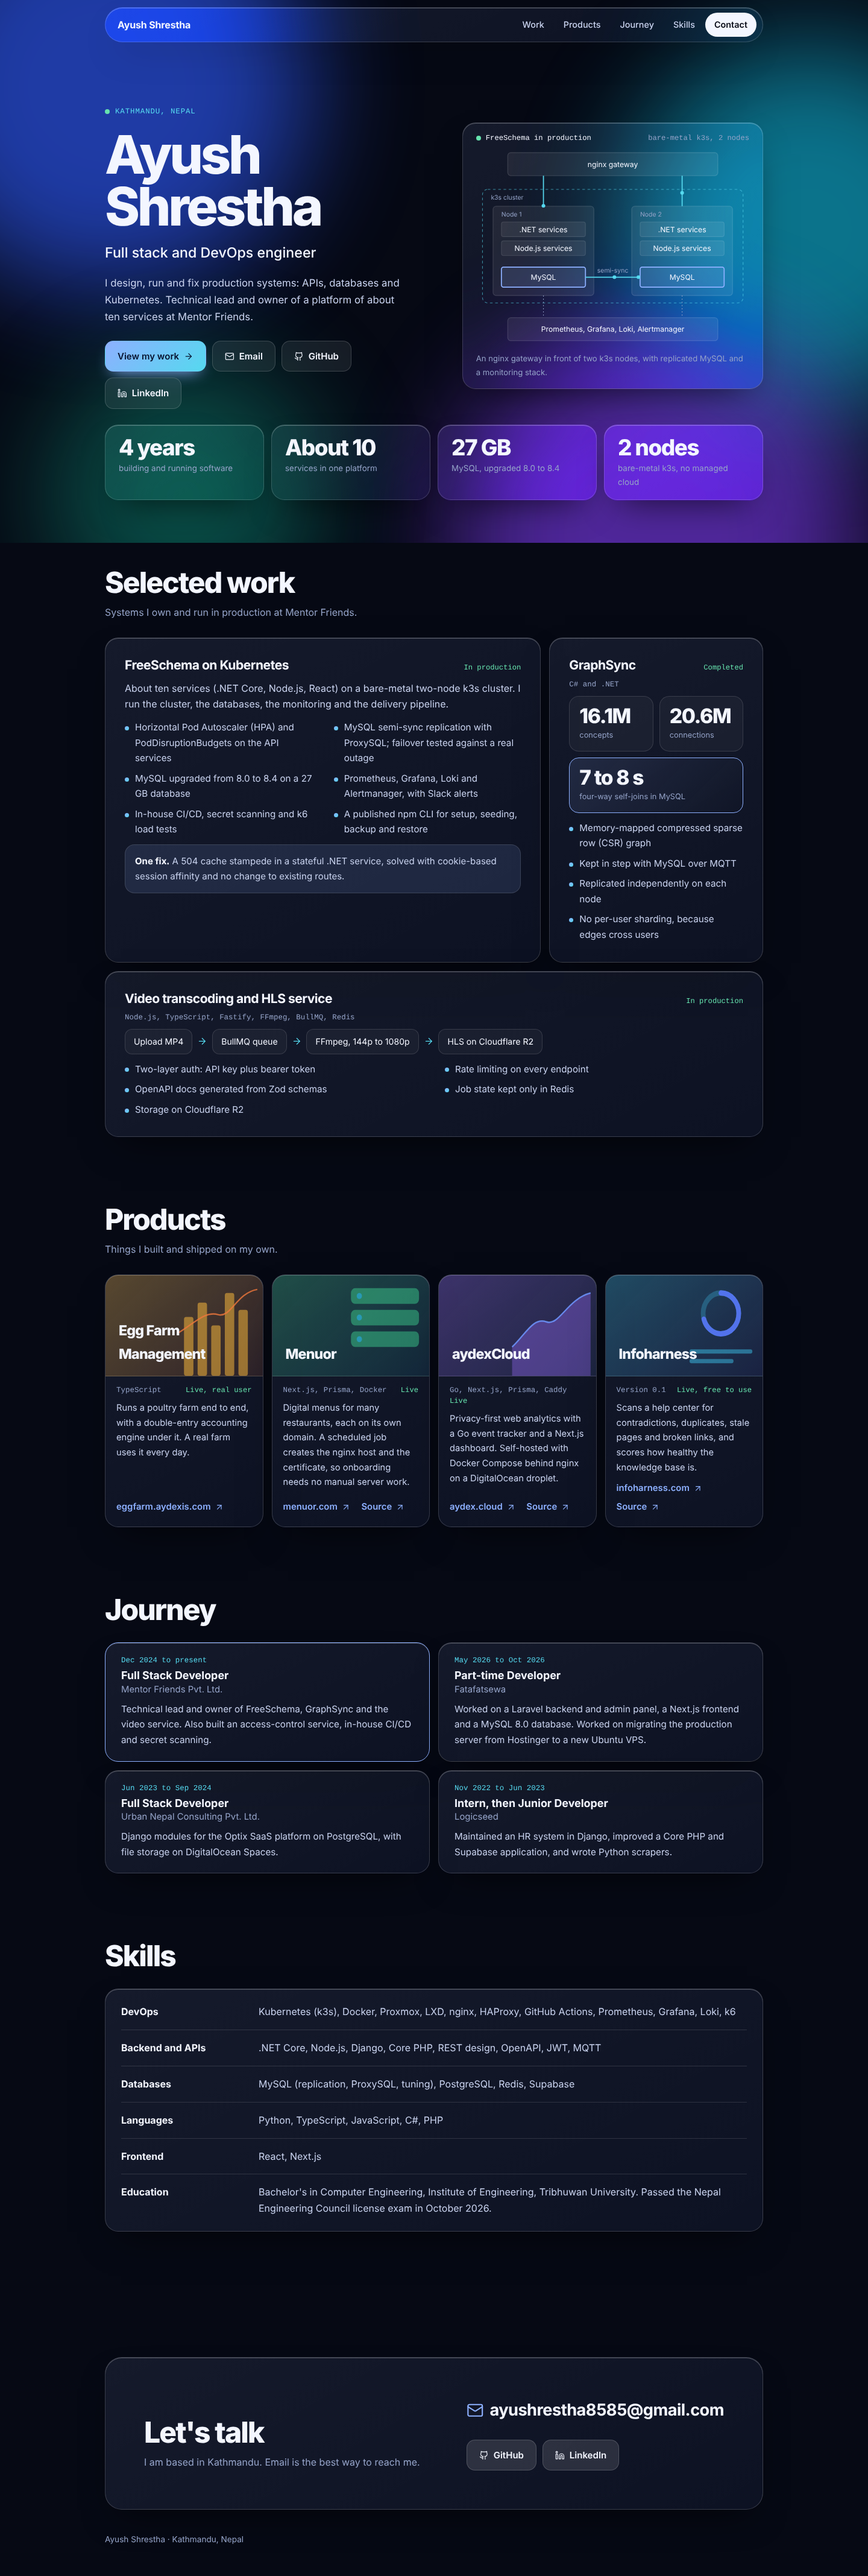
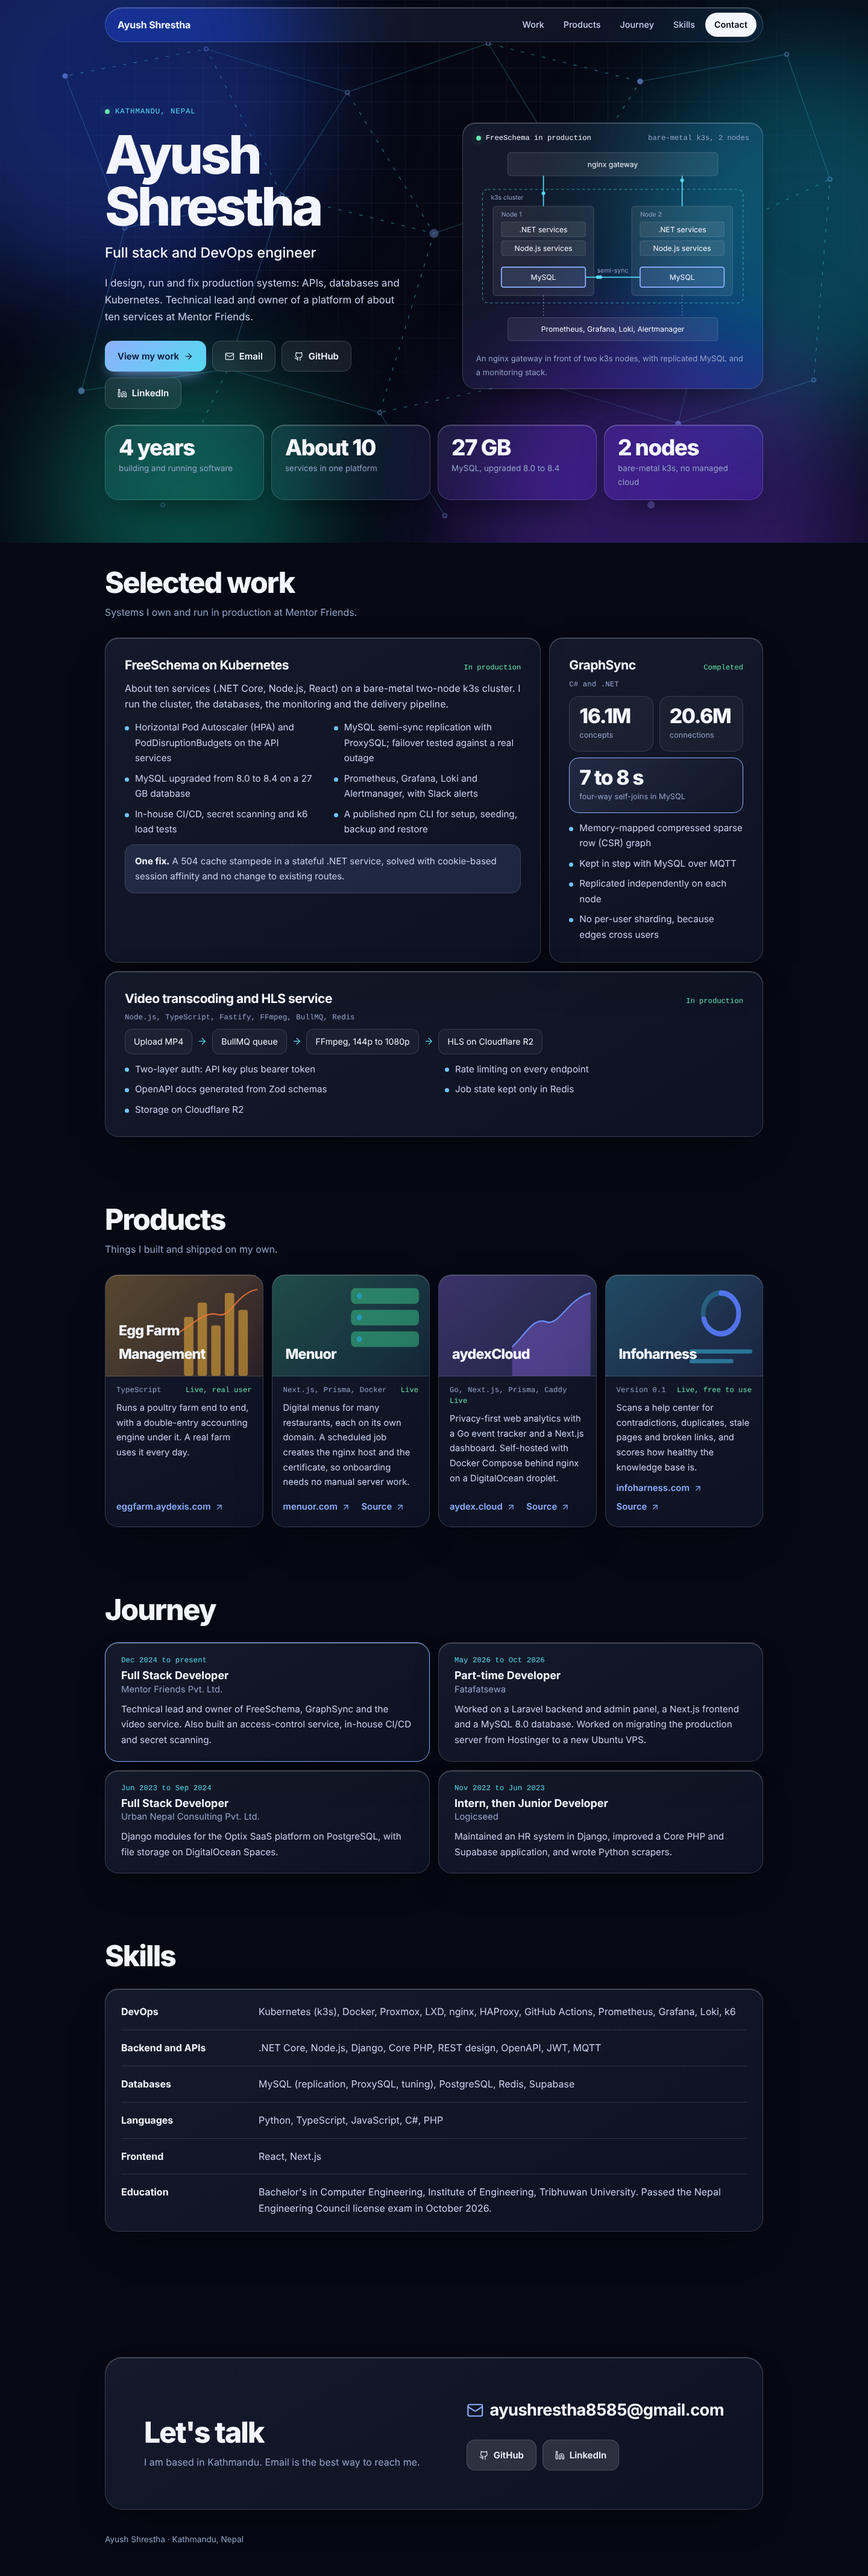
Update site
Claude-Session: https://claude.ai/code/session_01FbaWjKy9Nep8YQQhV1Rg68

Changed region(s): [[0.5, 0.0, 1.0, 0.218], [0.0, 0.0, 0.375, 0.1246]]

diff --git a/index.html b/index.html
@@ -13,7 +13,7 @@
 </head>
 <body>
 <svg width="0" height="0" style="position:absolute" aria-hidden="true" focusable="false"><defs><symbol id="i-mail" viewBox="0 0 24 24"><rect width="20" height="16" x="2" y="4" rx="2" /> <path d="m22 7-8.97 5.7a1.94 1.94 0 0 1-2.06 0L2 7" /></symbol><symbol id="i-github" viewBox="0 0 24 24"><path d="M15 22v-4a4.8 4.8 0 0 0-1-3.5c3 0 6-2 6-5.5.08-1.25-.27-2.48-1-3.5.28-1.15.28-2.35 0-3.5 0 0-1 0-3 1.5-2.64-.5-5.36-.5-8 0C6 2 5 2 5 2c-.3 1.15-.3 2.35 0 3.5A5.403 5.403 0 0 0 4 9c0 3.5 3 5.5 6 5.5-.39.49-.68 1.05-.85 1.65-.17.6-.22 1.23-.15 1.85v4" /> <path d="M9 18c-4.51 2-5-2-7-2" /></symbol><symbol id="i-linkedin" viewBox="0 0 24 24"><path d="M16 8a6 6 0 0 1 6 6v7h-4v-7a2 2 0 0 0-2-2 2 2 0 0 0-2 2v7h-4v-7a6 6 0 0 1 6-6z" /> <rect width="4" height="12" x="2" y="9" /> <circle cx="4" cy="4" r="2" /></symbol><symbol id="i-arrow-up-right" viewBox="0 0 24 24"><path d="M7 7h10v10" /> <path d="M7 17 17 7" /></symbol><symbol id="i-arrow-right" viewBox="0 0 24 24"><path d="M5 12h14" /> <path d="m12 5 7 7-7 7" /></symbol><symbol id="i-map-pin" viewBox="0 0 24 24"><path d="M20 10c0 4.993-5.539 10.193-7.399 11.799a1 1 0 0 1-1.202 0C9.539 20.193 4 14.993 4 10a8 8 0 0 1 16 0" /> <circle cx="12" cy="10" r="3" /></symbol></defs></svg>
-<div class="field" aria-hidden="true"><i class="orb a"></i><i class="orb b"></i><i class="orb c"></i><i class="orb d"></i></div>
+<div class="field" aria-hidden="true"><i class="grid"></i><svg class="net" viewBox="0 0 1600 1000" preserveAspectRatio="xMidYMid slice" aria-hidden="true"><line x1="120" y1="140" x2="380" y2="90" class="nl fl" style="animation-delay:-0.0s"/><line x1="380" y1="90" x2="640" y2="170" class="nl" style="animation-delay:-0.7s"/><line x1="640" y1="170" x2="900" y2="80" class="nl" style="animation-delay:-1.4s"/><line x1="900" y1="80" x2="1180" y2="150" class="nl fl" style="animation-delay:-2.1s"/><line x1="1180" y1="150" x2="1450" y2="100" class="nl" style="animation-delay:-2.8s"/><line x1="120" y1="140" x2="230" y2="420" class="nl" style="animation-delay:-3.5s"/><line x1="380" y1="90" x2="520" y2="360" class="nl fl" style="animation-delay:-4.2s"/><line x1="640" y1="170" x2="520" y2="360" class="nl" style="animation-delay:-4.9s"/><line x1="900" y1="80" x2="1060" y2="340" class="nl" style="animation-delay:-5.6s"/><line x1="1180" y1="150" x2="1060" y2="340" class="nl fl" style="animation-delay:-0.3s"/><line x1="1450" y1="100" x2="1530" y2="330" class="nl" style="animation-delay:-1.0s"/><line x1="230" y1="420" x2="520" y2="360" class="nl" style="animation-delay:-1.7s"/><line x1="520" y1="360" x2="800" y2="430" class="nl fl" style="animation-delay:-2.4s"/><line x1="800" y1="430" x2="1060" y2="340" class="nl" style="animation-delay:-3.1s"/><line x1="1060" y1="340" x2="1340" y2="420" class="nl" style="animation-delay:-3.8s"/><line x1="1340" y1="420" x2="1530" y2="330" class="nl fl" style="animation-delay:-4.5s"/><line x1="230" y1="420" x2="150" y2="720" class="nl" style="animation-delay:-5.2s"/><line x1="520" y1="360" x2="420" y2="680" class="nl" style="animation-delay:-5.9s"/><line x1="800" y1="430" x2="700" y2="760" class="nl fl" style="animation-delay:-0.6s"/><line x1="1060" y1="340" x2="980" y2="700" class="nl" style="animation-delay:-1.3s"/><line x1="1340" y1="420" x2="1250" y2="780" class="nl" style="animation-delay:-2.0s"/><line x1="1530" y1="330" x2="1500" y2="700" class="nl fl" style="animation-delay:-2.7s"/><line x1="150" y1="720" x2="420" y2="680" class="nl" style="animation-delay:-3.4s"/><line x1="420" y1="680" x2="700" y2="760" class="nl" style="animation-delay:-4.1s"/><line x1="700" y1="760" x2="980" y2="700" class="nl fl" style="animation-delay:-4.8s"/><line x1="980" y1="700" x2="1250" y2="780" class="nl" style="animation-delay:-5.5s"/><line x1="1250" y1="780" x2="1500" y2="700" class="nl" style="animation-delay:-0.2s"/><line x1="420" y1="680" x2="300" y2="930" class="nl fl" style="animation-delay:-0.9s"/><line x1="700" y1="760" x2="820" y2="950" class="nl" style="animation-delay:-1.6s"/><line x1="1250" y1="780" x2="1200" y2="930" class="nl" style="animation-delay:-2.3s"/><line x1="800" y1="430" x2="640" y2="170" class="nl fl" style="animation-delay:-3.0s"/><circle cx="120" cy="140" r="5" class="nn hub" style="animation-delay:-0.0s"/><circle cx="380" cy="90" r="3.5" class="nn" style="animation-delay:-0.9s"/><circle cx="640" cy="170" r="3.5" class="nn" style="animation-delay:-1.8s"/><circle cx="900" cy="80" r="3.5" class="nn" style="animation-delay:-2.7s"/><circle cx="1180" cy="150" r="5" class="nn hub" style="animation-delay:-3.6s"/><circle cx="1450" cy="100" r="3.5" class="nn" style="animation-delay:-4.5s"/><circle cx="230" cy="420" r="3.5" class="nn" style="animation-delay:-0.4s"/><circle cx="520" cy="360" r="3.5" class="nn" style="animation-delay:-1.3s"/><circle cx="800" cy="430" r="5" class="nn hub" style="animation-delay:-2.2s"/><circle cx="1060" cy="340" r="3.5" class="nn" style="animation-delay:-3.1s"/><circle cx="1340" cy="420" r="3.5" class="nn" style="animation-delay:-4.0s"/><circle cx="1530" cy="330" r="3.5" class="nn" style="animation-delay:-4.9s"/><circle cx="150" cy="720" r="5" class="nn hub" style="animation-delay:-0.8s"/><circle cx="420" cy="680" r="3.5" class="nn" style="animation-delay:-1.7s"/><circle cx="700" cy="760" r="3.5" class="nn" style="animation-delay:-2.6s"/><circle cx="980" cy="700" r="3.5" class="nn" style="animation-delay:-3.5s"/><circle cx="1250" cy="780" r="5" class="nn hub" style="animation-delay:-4.4s"/><circle cx="1500" cy="700" r="3.5" class="nn" style="animation-delay:-0.3s"/><circle cx="300" cy="930" r="3.5" class="nn" style="animation-delay:-1.2s"/><circle cx="820" cy="950" r="3.5" class="nn" style="animation-delay:-2.1s"/><circle cx="1200" cy="930" r="5" class="nn hub" style="animation-delay:-3.0s"/></svg><i class="orb a"></i><i class="orb b"></i><i class="orb c"></i><i class="orb d"></i></div>
 <a class="skip" href="#work">Skip to content</a>
 <header class="top"><div class="wrap"><div class="nav g">
   <a class="brand" href="#top">Ayush Shrestha</a>

diff --git a/css/style.css b/css/style.css
@@ -199,3 +199,17 @@ footer { padding-block: 38px max(44px, env(safe-area-inset-bottom, 0px)); color:
   .pk { display: none; }
 }
 @media print { .top, .field { display: none; } body { background: #fff; } .g { box-shadow: none; backdrop-filter: none; background: #fff; } .js .rv { opacity: 1; transform: none; } }
+
+/* infrastructure background: blueprint grid + service network */
+.grid { position: absolute; inset: 0; background-image: linear-gradient(var(--gridc) 1px, transparent 1px), linear-gradient(90deg, var(--gridc) 1px, transparent 1px); background-size: 56px 56px; -webkit-mask-image: radial-gradient(ellipse 85% 70% at 50% 28%, #000 25%, transparent 78%); mask-image: radial-gradient(ellipse 85% 70% at 50% 28%, #000 25%, transparent 78%); }
+.net { position: absolute; inset: 0; width: 100%; height: 100%; opacity: var(--net-op); }
+.nl { stroke: var(--accent-2); stroke-width: 1.2; stroke-opacity: .5; }
+.nl.fl { stroke-dasharray: 6 14; stroke-opacity: .9; animation: flow 5s linear infinite; }
+.nn { fill: var(--base); stroke: var(--accent); stroke-width: 1.6; }
+.nn.hub { fill: var(--accent); stroke: none; animation: pulse 4s ease-in-out infinite; transform-box: fill-box; transform-origin: center; }
+@keyframes flow { to { stroke-dashoffset: -80; } }
+@keyframes pulse { 50% { transform: scale(1.7); opacity: .55; } }
+:root { --gridc: rgba(30,60,140,.09); --net-op: .4; }
+@media (prefers-color-scheme: dark) { :root { --gridc: rgba(141,176,255,.08); --net-op: .42; } }
+.orb { opacity: calc(var(--orb-op) * .55); }
+@media (prefers-reduced-motion: reduce) { .nl.fl, .nn.hub { animation: none; } }
